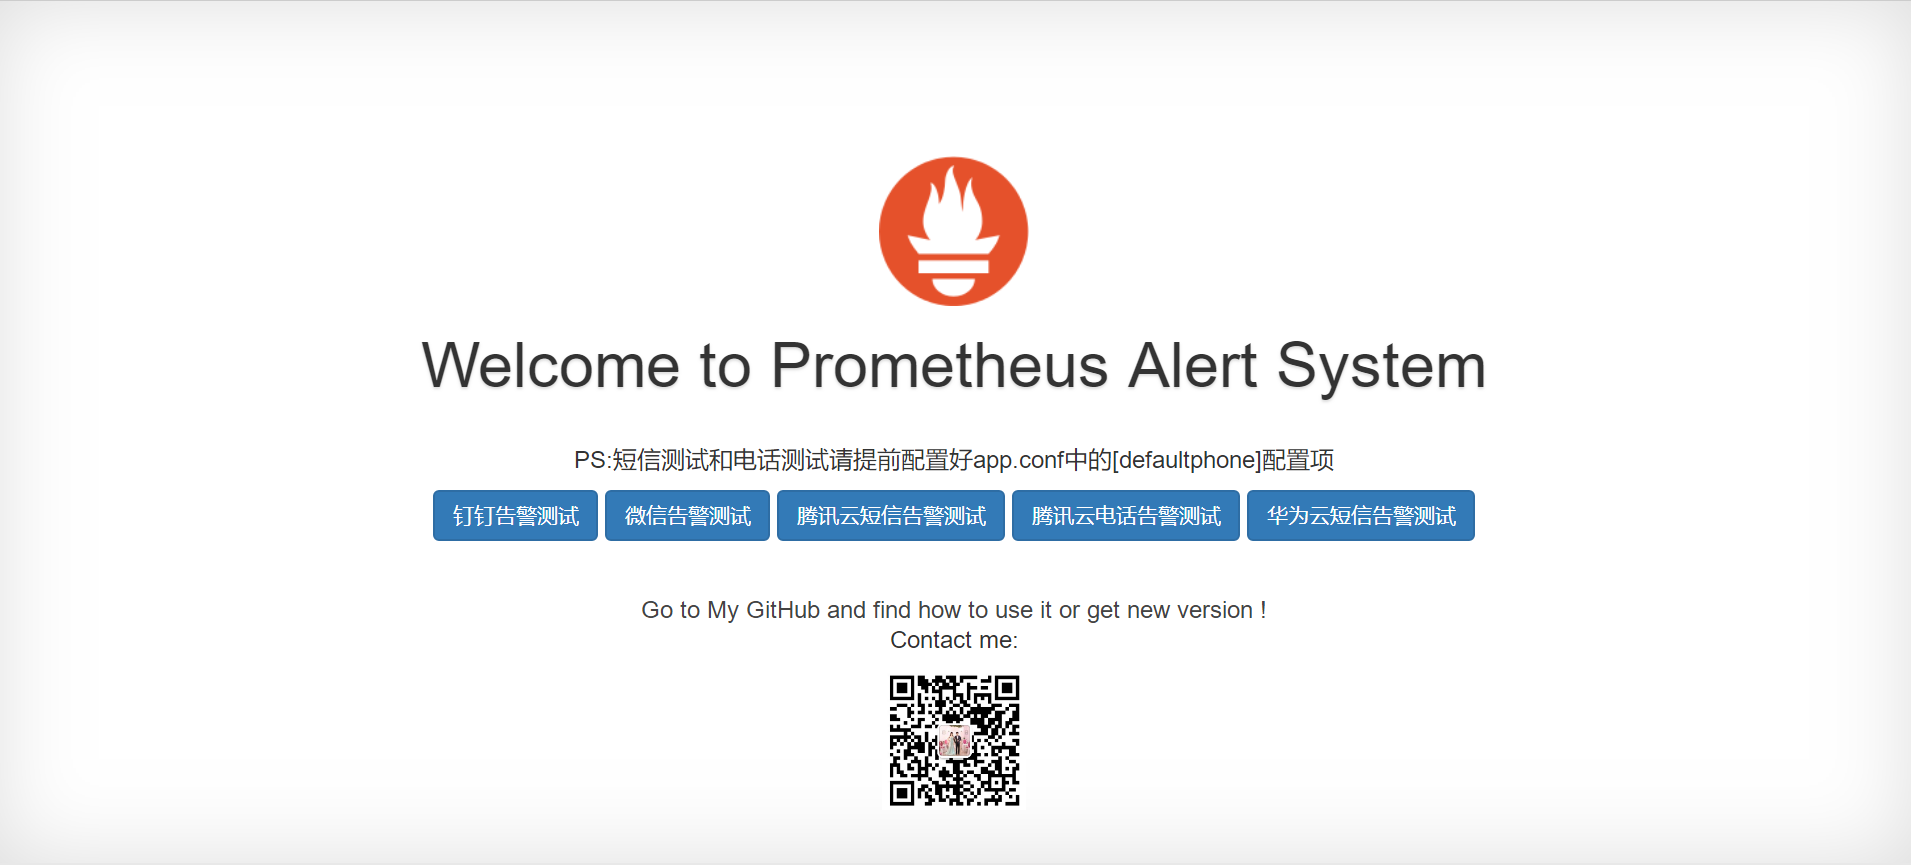
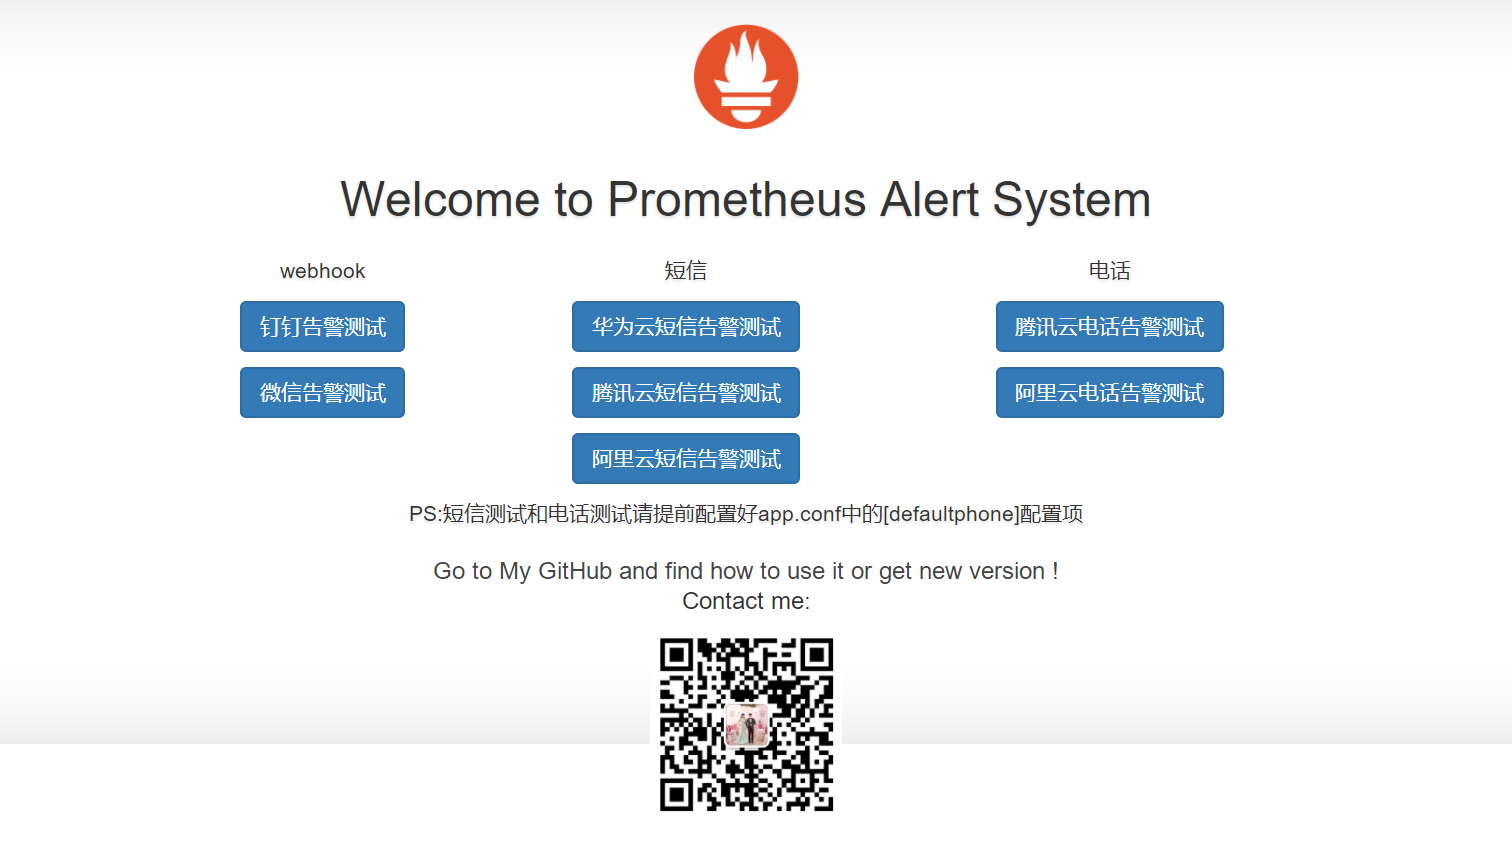
美化前端页面,增加钉钉@all开关,增加alertmanager router接口

Changed region(s): [[0.1554, 0.1835, 0.8082, 0.9788], [0.4352, 0.0306, 0.5284, 0.1529]]

diff --git a/controllers/prometheus.go b/controllers/prometheus.go
@@ -2,6 +2,7 @@ package controllers
 
 import (
 	"encoding/json"
+	"fmt"
 	"github.com/astaxie/beego"
 	"log"
 	"sort"
@@ -67,6 +68,7 @@ func (c *PrometheusController) PrometheusAlert() {
 	log.Println(c.Data["json"])
 	c.ServeJSON()
 }
+
 //func GetCSTtime(date string)(string)  {
 //	T1:=date[0:10]
 //	T2:=date[11:19]
@@ -132,11 +134,11 @@ func SendMessageP(message Prometheus)(string)  {
 				phone:=GetUserPhone(1)
 				returnMessage = returnMessage + "PostTXmessage:" + PostTXmessage(MobileMessage, phone) + "\n"
 				returnMessage = returnMessage + "PostHWmessage:" + PostHWmessage(MobileMessage, phone) + "\n"
-				returnMessage = returnMessage + "PostALYmessage:" + PostHWmessage(MobileMessage, phone) + "\n"
+				returnMessage = returnMessage + "PostALYmessage:" + PostALYmessage(MobileMessage, phone) + "\n"
 			}else {
 				returnMessage = returnMessage + "PostTXmessage:" + PostTXmessage(MobileMessage, RMessage.Annotations.Mobile) + "\n"
 				returnMessage = returnMessage + "PostHWmessage:" + PostHWmessage(MobileMessage, RMessage.Annotations.Mobile) + "\n"
-				returnMessage = returnMessage + "PostALYmessage:" + PostHWmessage(MobileMessage, RMessage.Annotations.Mobile) + "\n"
+				returnMessage = returnMessage + "PostALYmessage:" + PostALYmessage(MobileMessage, RMessage.Annotations.Mobile) + "\n"
 			}
 		}
 		//发送消息到语音
@@ -163,5 +165,99 @@ func SendMessageP(message Prometheus)(string)  {
 	return returnMessage
 }
 
+func (c *PrometheusController) PrometheusRouter() {
+	//{"receiver":"prometheus-alert-center","status":"firing","alerts":[{"status":"firing","labels":{"alertname":"KubePodCrashLooping","app":"kube-state-metrics","container":"emqx-test","instance":"172.28.58.250:8080","job":"kubernetes-service-endpoints","kubernetes_name":"kube-state-metrics","kubernetes_namespace":"monitor","level":"3","namespace":"test-mars","pod":"emqx-test-0"},"annotations":{"description":"Pod CrashLooping,test-mars/emqx-test-0 的容器 emqx-test 10分钟重启了5次","level":"3","timestamp":"@2019-12-06 03:00:00.516 +0000 UTC"},"startsAt":"2019-12-06T02:57:50.516115711Z","endsAt":"0001-01-01T00:00:00Z","generatorURL":"https://xprometheus-dev.i-tetris.com/graph?g0.expr=increase%28kube_pod_container_status_restarts_total%7Bnamespace%21~%22.%2Adev.%2A%22%7D%5B10m%5D%29+%3E+5\u0026g0.tab=1"},{"status":"firing","labels":{"alertname":"PodNotReady","app":"kube-state-metrics","class":"basic","container":"emqx-test","infrastructure":"true","instance":"172.28.58.250:8080","job":"kubernetes-service-endpoints","kubernetes_name":"kube-state-metrics","kubernetes_namespace":"monitor","level":"2","namespace":"test-mars","pod":"emqx-test-0"},"annotations":{"description":"test-mars/emqx-test-0 was not ready more than 120s.","level":"2","timestamp":"@2019-12-06 02:59:57.829 +0000 UTC"},"startsAt":"2019-12-06T02:12:17.830216179Z","endsAt":"0001-01-01T00:00:00Z","generatorURL":"https://xprometheus-dev.i-tetris.com/graph?g0.expr=kube_pod_container_status_ready+%21%3D+1\u0026g0.tab=1"},{"status":"firing","labels":{"alertname":"PodNotReady","app":"kube-state-metrics","class":"basic","container":"emqx-test","infrastructure":"true","instance":"172.28.58.250:8080","job":"kubernetes-service-endpoints","kubernetes_name":"kube-state-metrics","kubernetes_namespace":"monitor","level":"3","namespace":"test-mars","pod":"emqx-test-0"},"annotations":{"description":"test-mars/emqx-test-0 was not ready more than 300s.","level":"3","timestamp":"@2019-12-06 02:59:42.829 +0000 UTC"},"startsAt":"2019-12-06T02:15:17.830216179Z","endsAt":"0001-01-01T00:00:00Z","generatorURL":"https://xprometheus-dev.i-tetris.com/graph?g0.expr=kube_pod_container_status_ready%7Bnamespace%21~%22.%2Adev.%2A%22%7D+%21%3D+1\u0026g0.tab=1"}],"groupLabels":{"instance":"172.28.58.250:8080"},"commonLabels":{"app":"kube-state-metrics","container":"emqx-test","instance":"172.28.58.250:8080","job":"kubernetes-service-endpoints","kubernetes_name":"kube-state-metrics","kubernetes_namespace":"monitor","namespace":"test-mars","pod":"emqx-test-0"},"commonAnnotations":{},"externalURL":"https://xalertmanager-dev.i-tetris.com","version":"4","groupKey":"{}/{job=~\"^(?:.*)$\"}:{instance=\"172.28.58.250:8080\"}"}
+	wxurl:=c.GetString("wxurl")
+	ddurl:=c.GetString("ddurl")
+	phone:=c.GetString("phone")
+	fmt.Println(phone)
+	alert:=Prometheus{}
+	log.SetPrefix("[DEBUG 1]")
+	log.Println(string(c.Ctx.Input.RequestBody))
+	json.Unmarshal(c.Ctx.Input.RequestBody, &alert)
+	c.Data["json"]=SendMessageR(alert,wxurl,ddurl,phone)
+	log.SetPrefix("[DEBUG 3]")
+	log.Println(c.Data["json"])
+	c.ServeJSON()
+}
 
+func SendMessageR(message Prometheus,rwxurl,rddurl,rphone string)(string)  {
+	Title:=beego.AppConfig.String("title")
+	Logourl:=beego.AppConfig.String("logourl")
+	Messagelevel,_:=beego.AppConfig.Int("messagelevel")
+	PhoneCalllevel,_:=beego.AppConfig.Int("phonecalllevel")
+	PhoneCallResolved,_:=beego.AppConfig.Int("phonecallresolved")
+	Silent,_:=beego.AppConfig.Int("silent")
+	var ddtext,wxtext,MobileMessage,PhoneCallMessage,titleend,returnMessage string
+	//对分组消息进行排序
+	AlerMessage:=message.Alerts
+	sort.Sort(AlerMessages(AlerMessage))
+	//告警级别定义 0 信息,1 警告,2 一般严重,3 严重,4 灾难
+	AlertLevel:=[]string{"信息","警告","一般严重","严重","灾难"}
+	//遍历消息
+	for _, RMessage := range AlerMessage {
+		nLevel,_:=strconv.Atoi(RMessage.Labels.Level)
+		if RMessage.Status=="resolved" {
+			titleend="故障恢复信息"
+			ddtext="## ["+Title+"Prometheus"+titleend+"]("+RMessage.GeneratorUrl+")\n\n"+"#### ["+RMessage.Labels.Alertname+"]("+message.Externalurl+")\n\n"+"###### 告警级别："+AlertLevel[nLevel]+"\n\n"+"###### 开始时间："+RMessage.StartsAt+"\n\n"+"###### 结束时间："+RMessage.EndsAt+"\n\n"+"###### 故障主机IP："+RMessage.Labels.Instance+"\n\n"+"##### "+RMessage.Annotations.Description+"\n\n"+"!["+Title+"]("+Logourl+")"
+			wxtext="["+Title+"Prometheus"+titleend+"]("+RMessage.GeneratorUrl+")\n>**["+RMessage.Labels.Alertname+"]("+message.Externalurl+")**\n>`告警级别:`"+AlertLevel[nLevel]+"\n`开始时间:`"+RMessage.StartsAt+"\n`结束时间:`"+RMessage.EndsAt+"\n`故障主机IP:`"+RMessage.Labels.Instance+"\n**"+RMessage.Annotations.Description+"**"
+			MobileMessage="\n["+Title+"Prometheus"+titleend+"]\n"+RMessage.Labels.Alertname+"\n"+"告警级别："+AlertLevel[nLevel]+"\n"+"开始时间："+RMessage.StartsAt+"\n"+"结束时间："+RMessage.EndsAt+"\n"+"故障主机IP："+RMessage.Labels.Instance+"\n"+RMessage.Annotations.Description
+			PhoneCallMessage="故障主机IP："+RMessage.Labels.Instance+","+RMessage.Annotations.Description+"已经恢复"
+		}else {
+			titleend="故障告警信息"
+			ddtext="## ["+Title+"Prometheus"+titleend+"]("+RMessage.GeneratorUrl+")\n\n"+"#### ["+RMessage.Labels.Alertname+"]("+message.Externalurl+")\n\n"+"###### 告警级别："+AlertLevel[nLevel]+"\n\n"+"###### 开始时间："+RMessage.StartsAt+"\n\n"+"###### 结束时间："+RMessage.EndsAt+"\n\n"+"###### 故障主机IP："+RMessage.Labels.Instance+"\n\n"+"##### "+RMessage.Annotations.Description+"\n\n"+"!["+Title+"]("+Logourl+")"
+			wxtext="["+Title+"Prometheus"+titleend+"]("+RMessage.GeneratorUrl+")\n>**["+RMessage.Labels.Alertname+"]("+message.Externalurl+")**\n>`告警级别:`"+AlertLevel[nLevel]+"\n`开始时间:`"+RMessage.StartsAt+"\n`结束时间:`"+RMessage.EndsAt+"\n`故障主机IP:`"+RMessage.Labels.Instance+"\n**"+RMessage.Annotations.Description+"**"
+			MobileMessage="\n["+Title+"Prometheus"+titleend+"]\n"+RMessage.Labels.Alertname+"\n"+"告警级别："+AlertLevel[nLevel]+"\n"+"开始时间："+RMessage.StartsAt+"\n"+"结束时间："+RMessage.EndsAt+"\n"+"故障主机IP："+RMessage.Labels.Instance+"\n"+RMessage.Annotations.Description
+			PhoneCallMessage="故障主机IP："+RMessage.Labels.Instance+","+RMessage.Annotations.Description
+		}
+		//发送消息到钉钉
+		if rddurl==""{
+			url:=beego.AppConfig.String("ddurl")
+			returnMessage = returnMessage + "PostToDingDing:" + PostToDingDing(Title+titleend, ddtext, url) + "\n"
+		}else {
+			returnMessage = returnMessage + "PostToDingDing:" + PostToDingDing(Title+titleend, ddtext, rddurl) + "\n"
+		}
+		//发送消息到微信
+		if rwxurl=="" {
+			url := beego.AppConfig.String("wxurl")
+			returnMessage = returnMessage + "PostToWeiXin:" + PostToWeiXin(wxtext, url) + "\n"
+		}else {
+			returnMessage = returnMessage + "PostToWeiXin:" + PostToWeiXin(wxtext, rwxurl) + "\n"
+		}
+		//发送消息到短信
+		if (nLevel==Messagelevel) {
+			if rphone=="" {
+				phone:=GetUserPhone(1)
+				returnMessage = returnMessage + "PostTXmessage:" + PostTXmessage(MobileMessage, phone) + "\n"
+				returnMessage = returnMessage + "PostHWmessage:" + PostHWmessage(MobileMessage, phone) + "\n"
+				returnMessage = returnMessage + "PostALYmessage:" + PostALYmessage(MobileMessage, phone) + "\n"
+			}else {
+				returnMessage = returnMessage + "PostTXmessage:" + PostTXmessage(MobileMessage, rphone) + "\n"
+				returnMessage = returnMessage + "PostHWmessage:" + PostHWmessage(MobileMessage, rphone) + "\n"
+				returnMessage = returnMessage + "PostALYmessage:" + PostALYmessage(MobileMessage, rphone) + "\n"
+			}
+		}
+		//发送消息到语音
+		if (nLevel==PhoneCalllevel) {
+			//判断如果是恢复信息且PhoneCallResolved
+			if (RMessage.Status=="resolved" && PhoneCallResolved!=1) {
+				returnMessage="告警恢复消息已经关闭\n"
+			}else {
+				if rphone=="" {
+					phone:=GetUserPhone(1)
+					returnMessage = returnMessage + "PostTXphonecall:" + PostTXphonecall(PhoneCallMessage, phone) + "\n"
+					returnMessage = returnMessage + "PostALYphonecall:" + PostALYphonecall(PhoneCallMessage, phone) + "\n"
+				}else {
+					returnMessage = returnMessage + "PostTXphonecall:" + PostTXphonecall(PhoneCallMessage, rphone) + "\n"
+					returnMessage = returnMessage + "PostALYphonecall:" + PostALYphonecall(PhoneCallMessage, rphone) + "\n"
+				}
+			}
+		}
+		//告警抑制开启就直接跳出循环
+		if Silent==1 {
+			break
+		}
+	}
+	return returnMessage
+}
 

diff --git a/controllers/dingding.go b/controllers/dingding.go
@@ -27,6 +27,11 @@ func PostToDingDing(title,text,Ddurl string)(string)  {
 	if open=="0" {
 		return "钉钉接口未配置未开启状态,请先配置open-dingding为1"
 	}
+	Isatall,_:=beego.AppConfig.Int("dd_isatall")
+	Atall:=true
+	if Isatall==0 {
+		Atall=false
+	}
 	u := DDMessage{
 		Msgtype:"markdown",
 		Markdown: struct {
@@ -36,7 +41,7 @@ func PostToDingDing(title,text,Ddurl string)(string)  {
 		At: struct {
 			AtMobiles []string `json:"atMobiles"`
 			IsAtAll   bool `json:"isAtAll"`
-		}{AtMobiles:[]string{"15395105573"} , IsAtAll:true },
+		}{AtMobiles:[]string{"15395105573"} , IsAtAll:Atall },
 	}
 	b := new(bytes.Buffer)
 	json.NewEncoder(b).Encode(u)

diff --git a/routers/router.go b/routers/router.go
@@ -10,6 +10,7 @@ func init() {
     beego.Router("/alerttest", &controllers.MainController{},"post:AlertTest")
 	//prometheus
 	beego.Router("/prometheus/alert", &controllers.PrometheusController{},"post:PrometheusAlert")
+	beego.Router("/prometheus/router", &controllers.PrometheusController{},"post:PrometheusRouter")
     //graylog2
 	beego.Router("/graylog2/phone", &controllers.Graylog2Controller{},"post:GraylogTxdh")
 	beego.Router("/graylog2/dingding", &controllers.Graylog2Controller{},"post:GraylogDingding")
